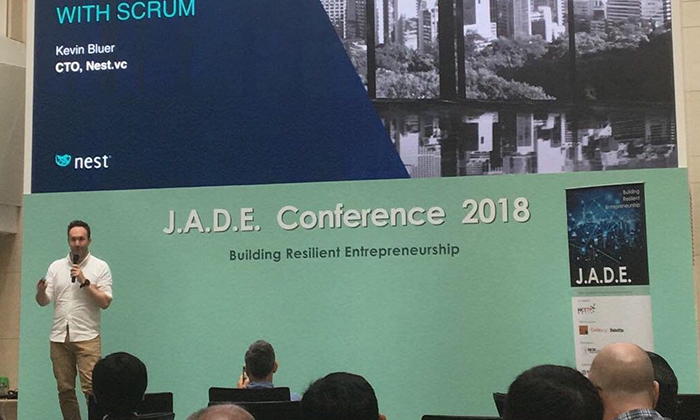
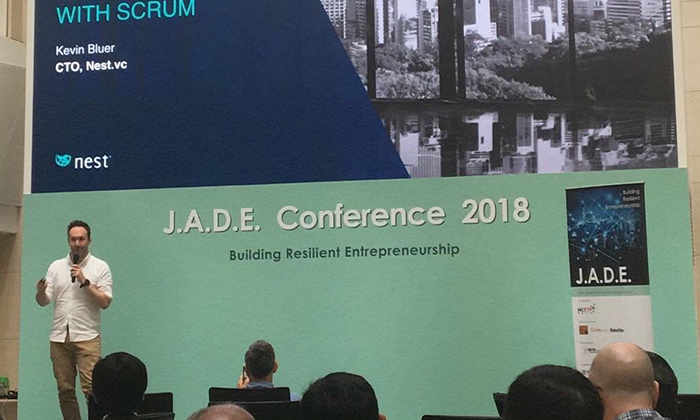
optimizing images

Changed region(s): [[0.12, 0.3714, 0.15, 0.4024]]

diff --git a/index.html b/index.html
@@ -317,7 +317,7 @@
             <li class="col-4-12 ae-3 fromCenter">
               <a href="#" class="box-67">
                 <div class="thumbnail-67">
-                  <img src="assets/img/blockchain-human-rights.png" class="wide"/>
+                  <img src="assets/img/blockchain-human-rights.jpg" class="wide"/>
                 </div>
                 <div class="name-67 equalElement table wide">
                   <div class="cell">
@@ -382,7 +382,7 @@
             <li class="col-4-12 ae-3 fromCenter">
               <a href="#" class="box-67">
                 <div class="thumbnail-67">
-                  <img src="assets/img/metta-coin-4.png" class="wide"/>
+                  <img src="assets/img/metta-coin-4.jpg" class="wide"/>
                 </div>
                 <div class="name-67 equalElement table wide">
                   <div class="cell">
@@ -395,7 +395,7 @@
             <li class="col-4-12 ae-3 fromCenter">
               <a href="#" class="box-67">
                 <div class="thumbnail-67">
-                  <img src="assets/img/dbs-blockchain-101.png" class="wide"/>
+                  <img src="assets/img/dbs-blockchain-101.jpg" class="wide"/>
                 </div>
                 <div class="name-67 equalElement table wide">
                   <div class="cell">
@@ -421,7 +421,7 @@
             <li class="col-4-12 ae-3 fromCenter">
               <a href="#" class="box-67">
                 <div class="thumbnail-67">
-                  <img src="assets/img/metta-coin-3.png" class="wide"/>
+                  <img src="assets/img/metta-coin-3.jpg" class="wide"/>
                 </div>
                 <div class="name-67 equalElement table wide">
                   <div class="cell">
@@ -434,7 +434,7 @@
             <li class="col-4-12 ae-3 fromCenter">
               <a href="#" class="box-67">
                 <div class="thumbnail-67">
-                  <img src="assets/img/metta-coin-2.png" class="wide"/>
+                  <img src="assets/img/metta-coin-2.jpg" class="wide"/>
                 </div>
                 <div class="name-67 equalElement table wide">
                   <div class="cell">
@@ -447,7 +447,7 @@
             <li class="col-4-12 ae-4 fromCenter">
               <a href="#" class="box-67">
                 <div class="thumbnail-67">
-                  <img src="assets/img/macau-week.png" class="wide"/>
+                  <img src="assets/img/macau-week.jpg" class="wide"/>
                 </div>
                 <div class="name-67 equalElement table wide">
                   <div class="cell">
@@ -460,7 +460,7 @@
             <li class="col-4-12 ae-5 fromCenter">
               <a href="#" class="box-67">
                 <div class="thumbnail-67">
-                  <img src="assets/img/metta-coin-1.png" class="wide"/>
+                  <img src="assets/img/metta-coin-1.jpg" class="wide"/>
                 </div>
                 <div class="name-67 equalElement table wide">
                   <div class="cell">
@@ -473,7 +473,7 @@
             <li class="col-4-12 ae-3 fromCenter">
               <a href="#" class="box-67">
                 <div class="thumbnail-67">
-                  <img src="assets/img/hkust.png" class="wide"/>
+                  <img src="assets/img/hkust.jpg" class="wide"/>
                 </div>
                 <div class="name-67 equalElement table wide">
                   <div class="cell">
@@ -486,7 +486,7 @@
             <li class="col-4-12 ae-4 fromCenter">
               <a href="#" class="box-67">
                 <div class="thumbnail-67">
-                  <img src="assets/img/hkjs-vr.png" class="wide"/>
+                  <img src="assets/img/hkjs-vr.jpg" class="wide"/>
                 </div>
                 <div class="name-67 equalElement table wide">
                   <div class="cell">
@@ -499,7 +499,7 @@
             <li class="col-4-12 ae-5 fromCenter">
               <a href="#" class="box-67">
                 <div class="thumbnail-67">
-                  <img src="assets/img/hkjs-daap.png" class="wide"/>
+                  <img src="assets/img/hkjs-daap.jpg" class="wide"/>
                 </div>
                 <div class="name-67 equalElement table wide">
                   <div class="cell">
@@ -512,7 +512,7 @@
             <li class="col-4-12 ae-3 fromCenter">
               <a href="#" class="box-67">
                 <div class="thumbnail-67">
-                  <img src="assets/img/accelerator-panel.png" class="wide"/>
+                  <img src="assets/img/accelerator-panel.jpg" class="wide"/>
                 </div>
                 <div class="name-67 equalElement table wide">
                   <div class="cell">
@@ -525,7 +525,7 @@
             <li class="col-4-12 ae-4 fromCenter">
               <a href="#" class="box-67">
                 <div class="thumbnail-67">
-                  <img src="assets/img/shenzhen.png" class="wide"/>
+                  <img src="assets/img/shenzhen.jpg" class="wide"/>
                 </div>
                 <div class="name-67 equalElement table wide">
                   <div class="cell">
@@ -538,7 +538,7 @@
             <li class="col-4-12 ae-5 fromCenter">
               <a href="#" class="box-67">
                 <div class="thumbnail-67">
-                  <img src="assets/img/hkjs-wit-ai.png" class="wide"/>
+                  <img src="assets/img/hkjs-wit-ai.jpg" class="wide"/>
                 </div>
                 <div class="name-67 equalElement table wide">
                   <div class="cell">
@@ -551,7 +551,7 @@
             <li class="col-4-12 ae-5 fromCenter">
               <a href="https://www.youtube.com/watch?v=GscGztRNwcI" class="box-67">
                 <div class="thumbnail-67">
-                  <img src="assets/img/hkjs-electron.png" class="wide"/>
+                  <img src="assets/img/hkjs-electron.jpg" class="wide"/>
                 </div>
                 <div class="name-67 equalElement table wide">
                   <div class="cell">
@@ -564,7 +564,7 @@
             <li class="col-4-12 ae-5 fromCenter">
               <a href="https://www.youtube.com/watch?v=Xho2RCqRLYE" class="box-67">
                 <div class="thumbnail-67">
-                  <img src="assets/img/mobile-app-bootcamp.png" class="wide"/>
+                  <img src="assets/img/mobile-app-bootcamp.jpg" class="wide"/>
                 </div>
                 <div class="name-67 equalElement table wide">
                   <div class="cell">
@@ -577,7 +577,7 @@
             <li class="col-4-12 ae-5 fromCenter">
               <a href="#" class="box-67">
                 <div class="thumbnail-67">
-                  <img src="assets/img/hkjs-mobile-app.png" class="wide"/>
+                  <img src="assets/img/hkjs-mobile-app.jpg" class="wide"/>
                 </div>
                 <div class="name-67 equalElement table wide">
                   <div class="cell">
@@ -590,7 +590,7 @@
             <li class="col-4-12 ae-5 fromCenter">
               <a href="#" class="box-67">
                 <div class="thumbnail-67">
-                  <img src="assets/img/ga-intro-mobile-app.png" class="wide"/>
+                  <img src="assets/img/ga-intro-mobile-app.jpg" class="wide"/>
                 </div>
                 <div class="name-67 equalElement table wide">
                   <div class="cell">
@@ -603,7 +603,7 @@
             <li class="col-4-12 ae-4 fromCenter">
               <a href="#" class="box-67">
                 <div class="thumbnail-67">
-                  <img src="assets/img/magic-1.png" class="wide"/>
+                  <img src="assets/img/magic-1.jpg" class="wide"/>
                 </div>
                 <div class="name-67 equalElement table wide">
                   <div class="cell">
@@ -616,7 +616,7 @@
             <li class="col-4-12 ae-5 fromCenter">
               <a href="#" class="box-67">
                 <div class="thumbnail-67">
-                  <img src="assets/img/magic-2.png" class="wide"/>
+                  <img src="assets/img/magic-2.jpg" class="wide"/>
                 </div>
                 <div class="name-67 equalElement table wide">
                   <div class="cell">
@@ -629,7 +629,7 @@
             <li class="col-4-12 ae-5 fromCenter">
               <a href="#" class="box-67">
                 <div class="thumbnail-67">
-                  <img src="assets/img/ga-few-hk.png" class="wide"/>
+                  <img src="assets/img/ga-few-hk.jpg" class="wide"/>
                 </div>
                 <div class="name-67 equalElement table wide">
                   <div class="cell">
@@ -655,7 +655,7 @@
             <li class="col-4-12 ae-5 fromCenter">
               <a href="#" class="box-67">
                 <div class="thumbnail-67">
-                  <img src="assets/img/ga-fewd-ny.png" class="wide"/>
+                  <img src="assets/img/ga-fewd-ny.jpg" class="wide"/>
                 </div>
                 <div class="name-67 equalElement table wide">
                   <div class="cell">
@@ -668,7 +668,7 @@
             <li class="col-4-12 ae-5 fromCenter">
               <a href="https://www.youtube.com/watch?v=QQBOq-hdq78" class="box-67">
                 <div class="thumbnail-67">
-                  <img src="assets/img/google-talk.png" class="wide"/>
+                  <img src="assets/img/google-talk.jpg" class="wide"/>
                 </div>
                 <div class="name-67 equalElement table wide">
                   <div class="cell">
@@ -681,7 +681,7 @@
             <li class="col-4-12 ae-5 fromCenter">
               <a href="https://www.youtube.com/watch?v=Xho2RCqRLYE" class="box-67">
                 <div class="thumbnail-67">
-                  <img src="assets/img/google-io-2012.png" class="wide"/>
+                  <img src="assets/img/google-io-2012.jpg" class="wide"/>
                 </div>
                 <div class="name-67 equalElement table wide">
                   <div class="cell">
